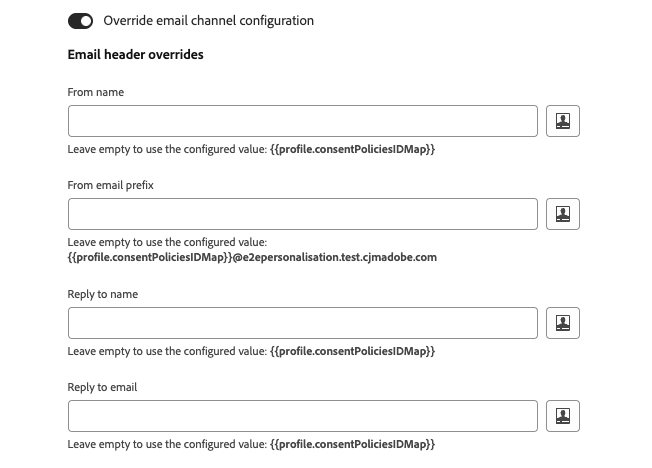
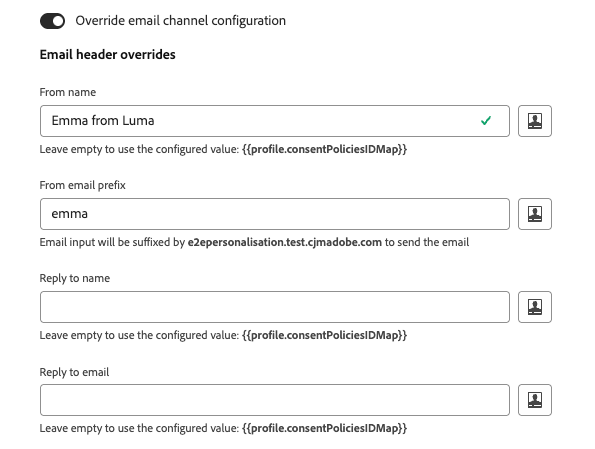
Example and screenshots updated

diff --git a/help/using/email/create-email.md b/help/using/email/create-email.md
@@ -143,22 +143,23 @@ You can override:
 
 * Email header fields: **[!UICONTROL From name]**, **[!UICONTROL From email prefix]**, **[!UICONTROL Reply to name]**, and **[!UICONTROL Reply to email]**. Overriding these fields allows sender details to reflect information such as the relevant advisor, location, or branch for each recipient, rather than routing all sends through a single corporate address. [Learn more on header parameters](header-parameters.md)
 
-  ![Email header override fields including From and Reply-to parameters](../campaigns/assets/create-campaign-action-override-header.png){width=80%}
+  ![Email header override fields including From and Reply-to parameters](../campaigns/assets/create-campaign-action-override-header.png){width=70%}
 
-  For example, you may want to override the name and email address of the sender to match the details of the specific relationship manager handling the recipient's account.
+  For example, a customer visits one of your stores, discusses selected items with a relationship manager, and shares their email address. A few days later, you can send a personalized follow-up email and override the sender name and email address so the message appears to come from that same relationship manager, creating a more consistent and relevant experience.
 
 * Execution address: **[!UICONTROL Delivery address]**. When several email addresses are available for a given profile, [!DNL Journey Optimizer] uses the execution field set in the [general settings](../configuration/primary-email-addresses.md) or in the [channel configuration](email-settings.md#execution-address) to determine which email address to use from the profile service in priority. In some cases, you may want to override the delivery address set globally and define a different value at the action level.
 
+  ![Execution address override field in the email action](../campaigns/assets/create-campaign-action-override-exec-address.png){width=70%}
+
 * List-unsubscribe values: **[!UICONTROL Mailto (unsubscribe)]** and **[!UICONTROL One-click unsubscribe URL]**. The one-click [List unsubscribe](list-unsubscribe.md) URL is an unsubscribe link or button displayed next to the email sender information and lets recipients instantly opt out of your mailing lists with a single click. Here you can replace the unsubscribe address and one-click unsubscribe URL set at the channel configuration level.
 
-  ![Execution address and list unsubscribe override fields in the email action](../campaigns/assets/create-campaign-action-override-list.png){width=70%}
+  ![List unsubscribe override fields in the email action](../campaigns/assets/create-campaign-action-override-list.png){width=70%}
 
 The configured value displays under each override field. To keep the configured value for a setting, leave that field empty.
 
 >[!CAUTION]
 >
->For API-triggered campaigns, as the context is generated from the API payload at runtime, contextual attributes are not available in the personalization editor when defining the email action, so they must be entered manually. The expression path must match the API payload structure exactly. [Learn more on contextual data syntax](../campaigns/api-triggered-campaign-content.md#contextual)
-
+>For API-triggered campaigns, as the context is generated from the API payload at runtime, contextual attributes are not available in the personalization editor when defining the email action, so they must be entered manually. The expression path must match the API payload structure exactly as no check is performed by [!DNL Journey Optimizer]. [Learn more on contextual data syntax](../campaigns/api-triggered-campaign-content.md#contextual)
 
 ## Define your email content {#define-email-content}
 

diff --git a/help/using/campaigns/api-triggered-campaign-action.md b/help/using/campaigns/api-triggered-campaign-action.md
@@ -89,9 +89,12 @@ In the **[!UICONTROL Business rules]** drop-down list, select a rule set to appl
 
 Use this option when an API-triggered campaign needs email values that differ from the selected channel configuration, without creating another configuration. You can override only the fields needed for that action while keeping the rest of the configuration unchanged. [Learn how to override email channel configuration](../email/create-email.md#override-email-channel-configuration)
 
->[!CAUTION]
+For API-triggered campaigns, as the context is generated from the API payload at runtime, contextual attributes are not available in the personalization editor when defining the email action, so they must be entered manually. [Learn more on contextual data syntax](../campaigns/api-triggered-campaign-content.md#contextual)
+
+>[!IMPORTANT]
 >
->For API-triggered campaigns, as the context is generated from the API payload at runtime, contextual attributes are not available in the personalization editor when defining the email action, so they must be entered manually. The expression path must match the API payload structure exactly as no check is performed by [!DNL Journey Optimizer]. [Learn more on contextual data syntax](../campaigns/api-triggered-campaign-content.md#contextual)
+>The expression path must match the API payload structure exactly as no check is performed by [!DNL Journey Optimizer]. For example, if the payload contains `context.RM.name` and `context.RM.emailPrefix`, use the same dot notation in your expression.
+
 
 +++
 
